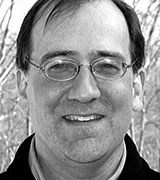
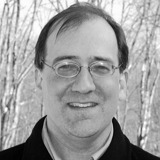
update bio headshots

diff --git a/_includes/bios/bfrost.html b/_includes/bios/bfrost.html
@@ -1,5 +1,5 @@
 <section class="event-bio">
-  <img alt="Brad Frost" src="{{ page.baseurl }}/cms/img/bio-placeholder.jpg">
+  <img alt="Brad Frost" src="{{ page.baseurl }}/cms/img/bio-brad-frost.jpg">
   <h2>Brad Frost</h2>
   <p>Brad Frost is a web designer, speaker, writer, and consultant located in beautiful Pittsburgh, PA. He is the author of the book <cite>Atomic Design</cite>, which introduces a methodology to create and maintain effective design systems. In addition to co-hosting the <cite>Style Guides Podcast</cite>, he has also helped create several tools and resources for web designers, including Pattern Lab, Styleguides.io, Style Guide Guide, This Is Responsive, and WTF Mobile Web.</p>
 </section>

diff --git a/_includes/bios/sshepherd.html b/_includes/bios/sshepherd.html
@@ -1,5 +1,5 @@
 <section class="event-bio">
-  <img alt="Sophie Shepherd" src="{{ page.baseurl }}/cms/img/bio-placeholder.jpg">
+  <img alt="Sophie Shepherd" src="{{ page.baseurl }}/cms/img/bio-sophie-shepherd.jpg">
   <h2>Sophie Shepherd</h2>
   <p>Sophie Shepherd is a design manager at GitHub. She works on both the web team and the design systems team, at the intersection of brand, marketing, and CSS. Prior to this, she was a Senior Designer at Ushahidi, an open-source, non-profit software company and Happy Cog, a client-services agency.</p>
 </section>
